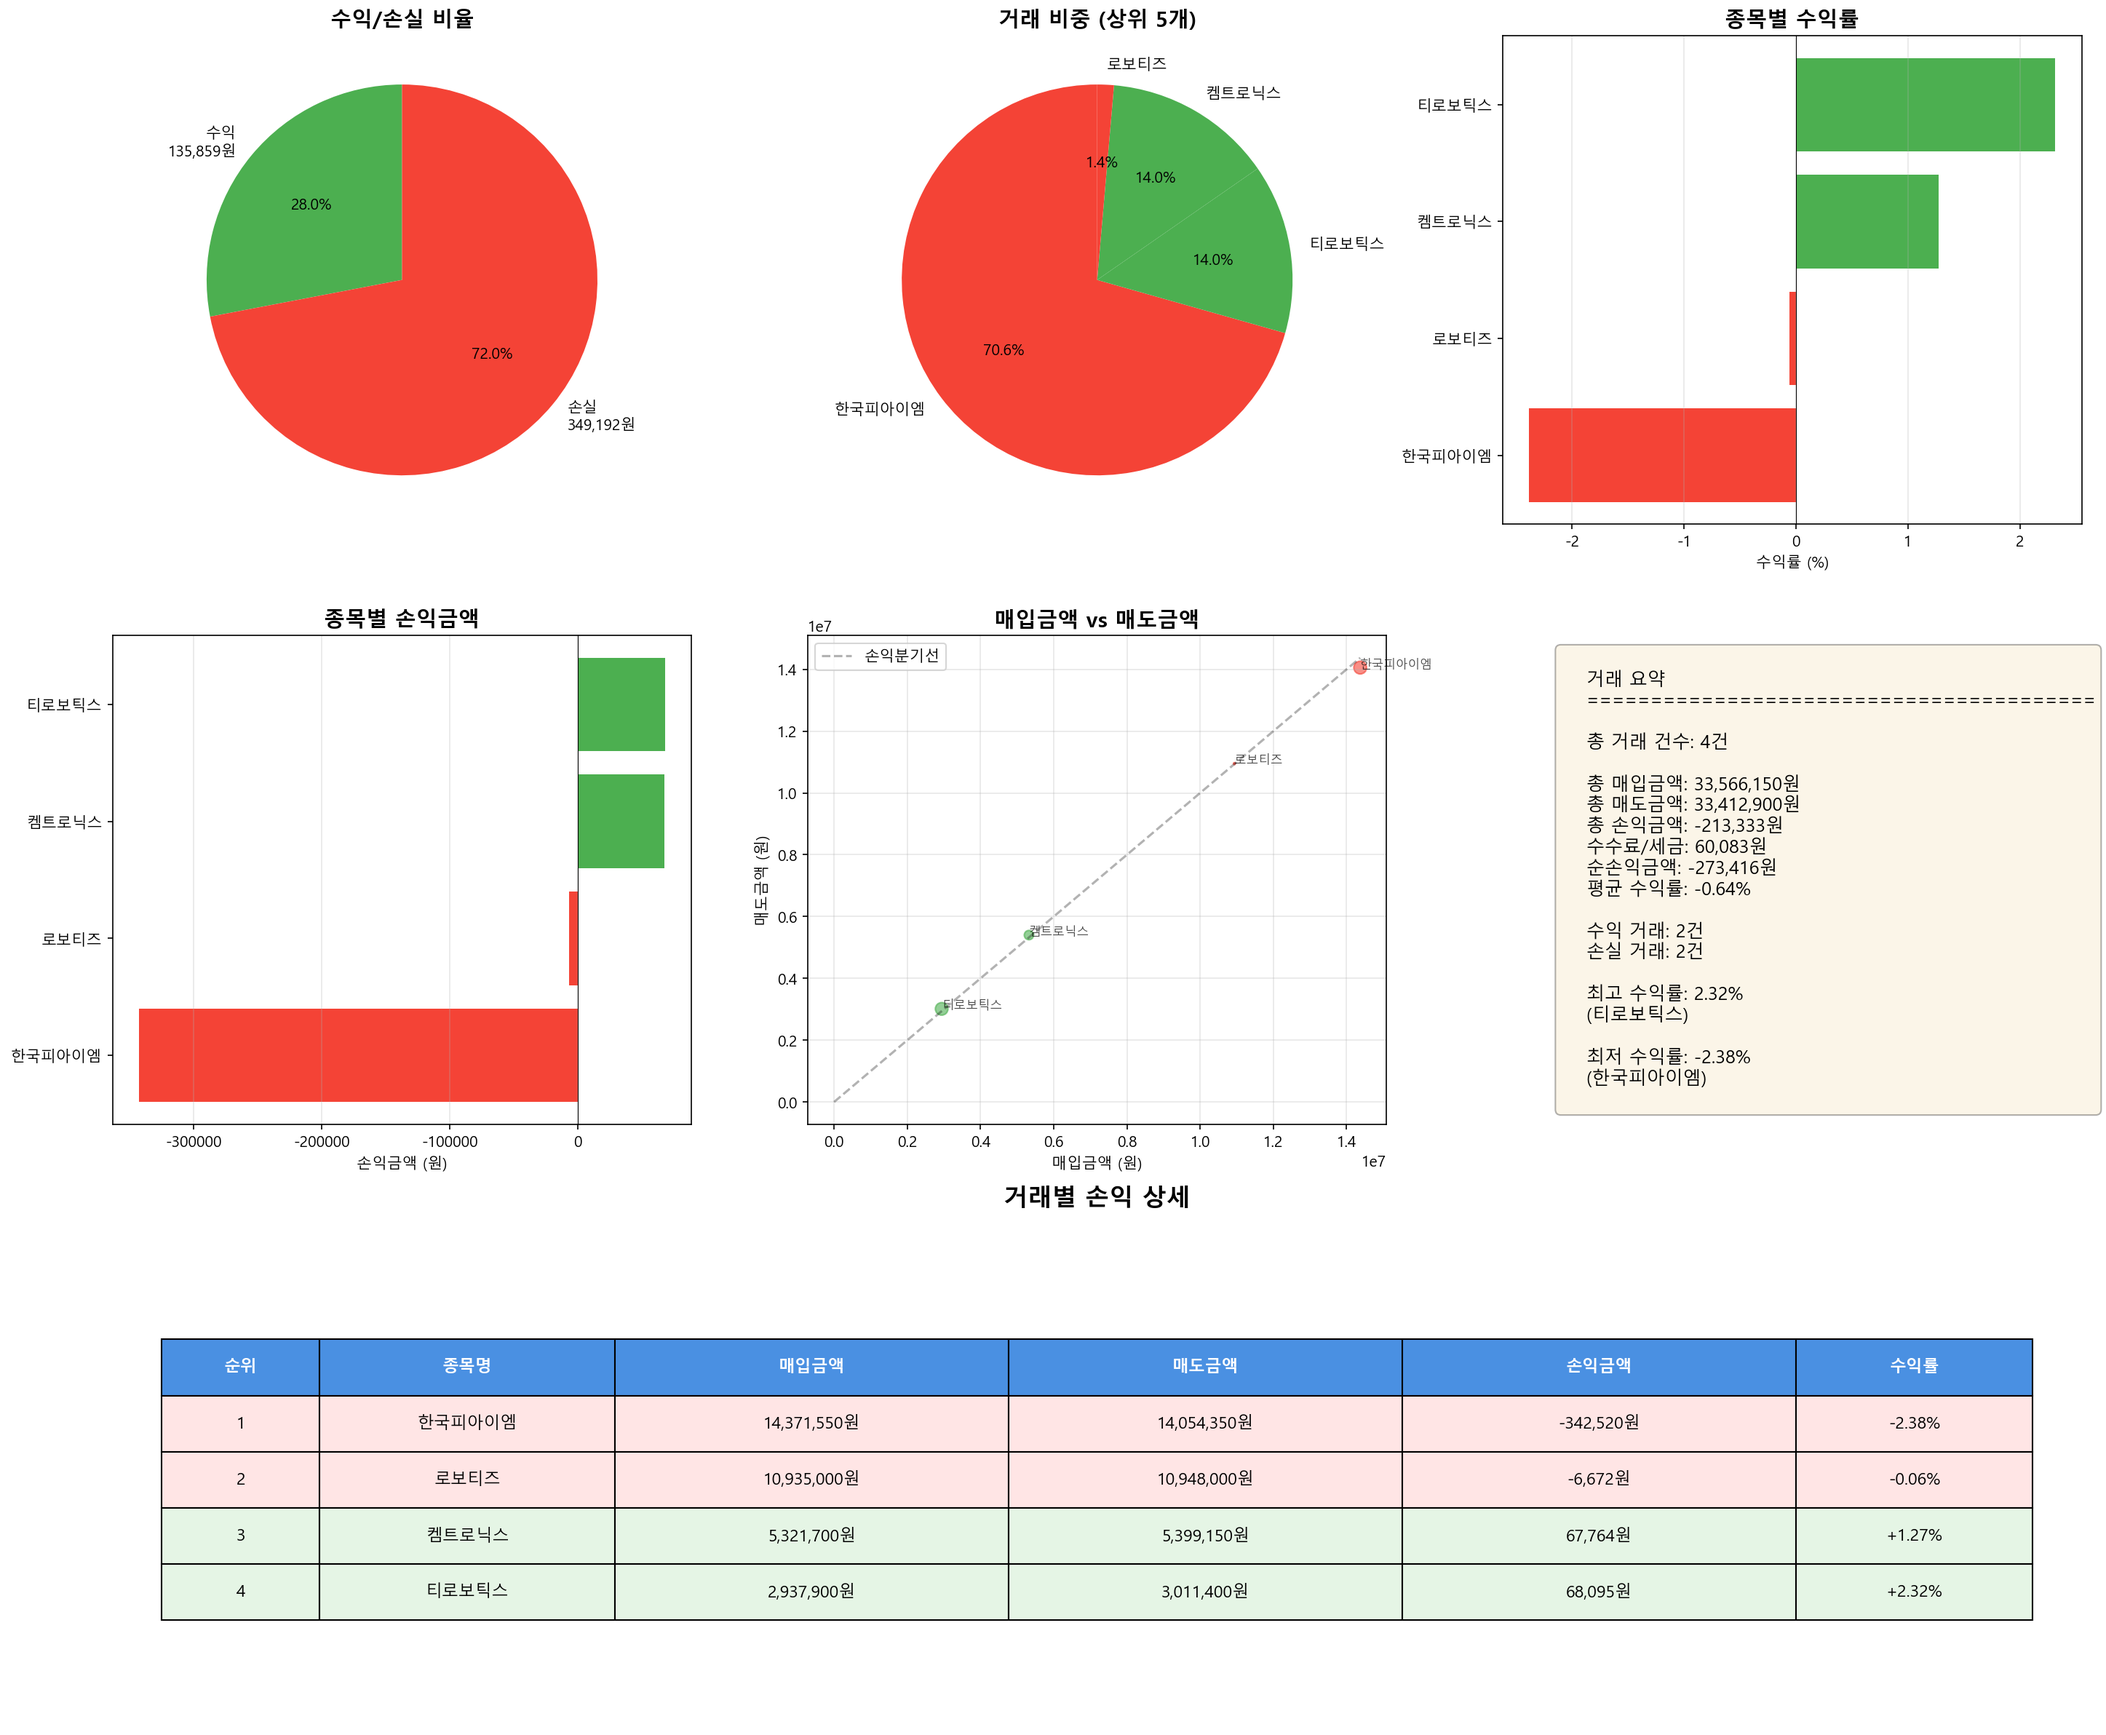
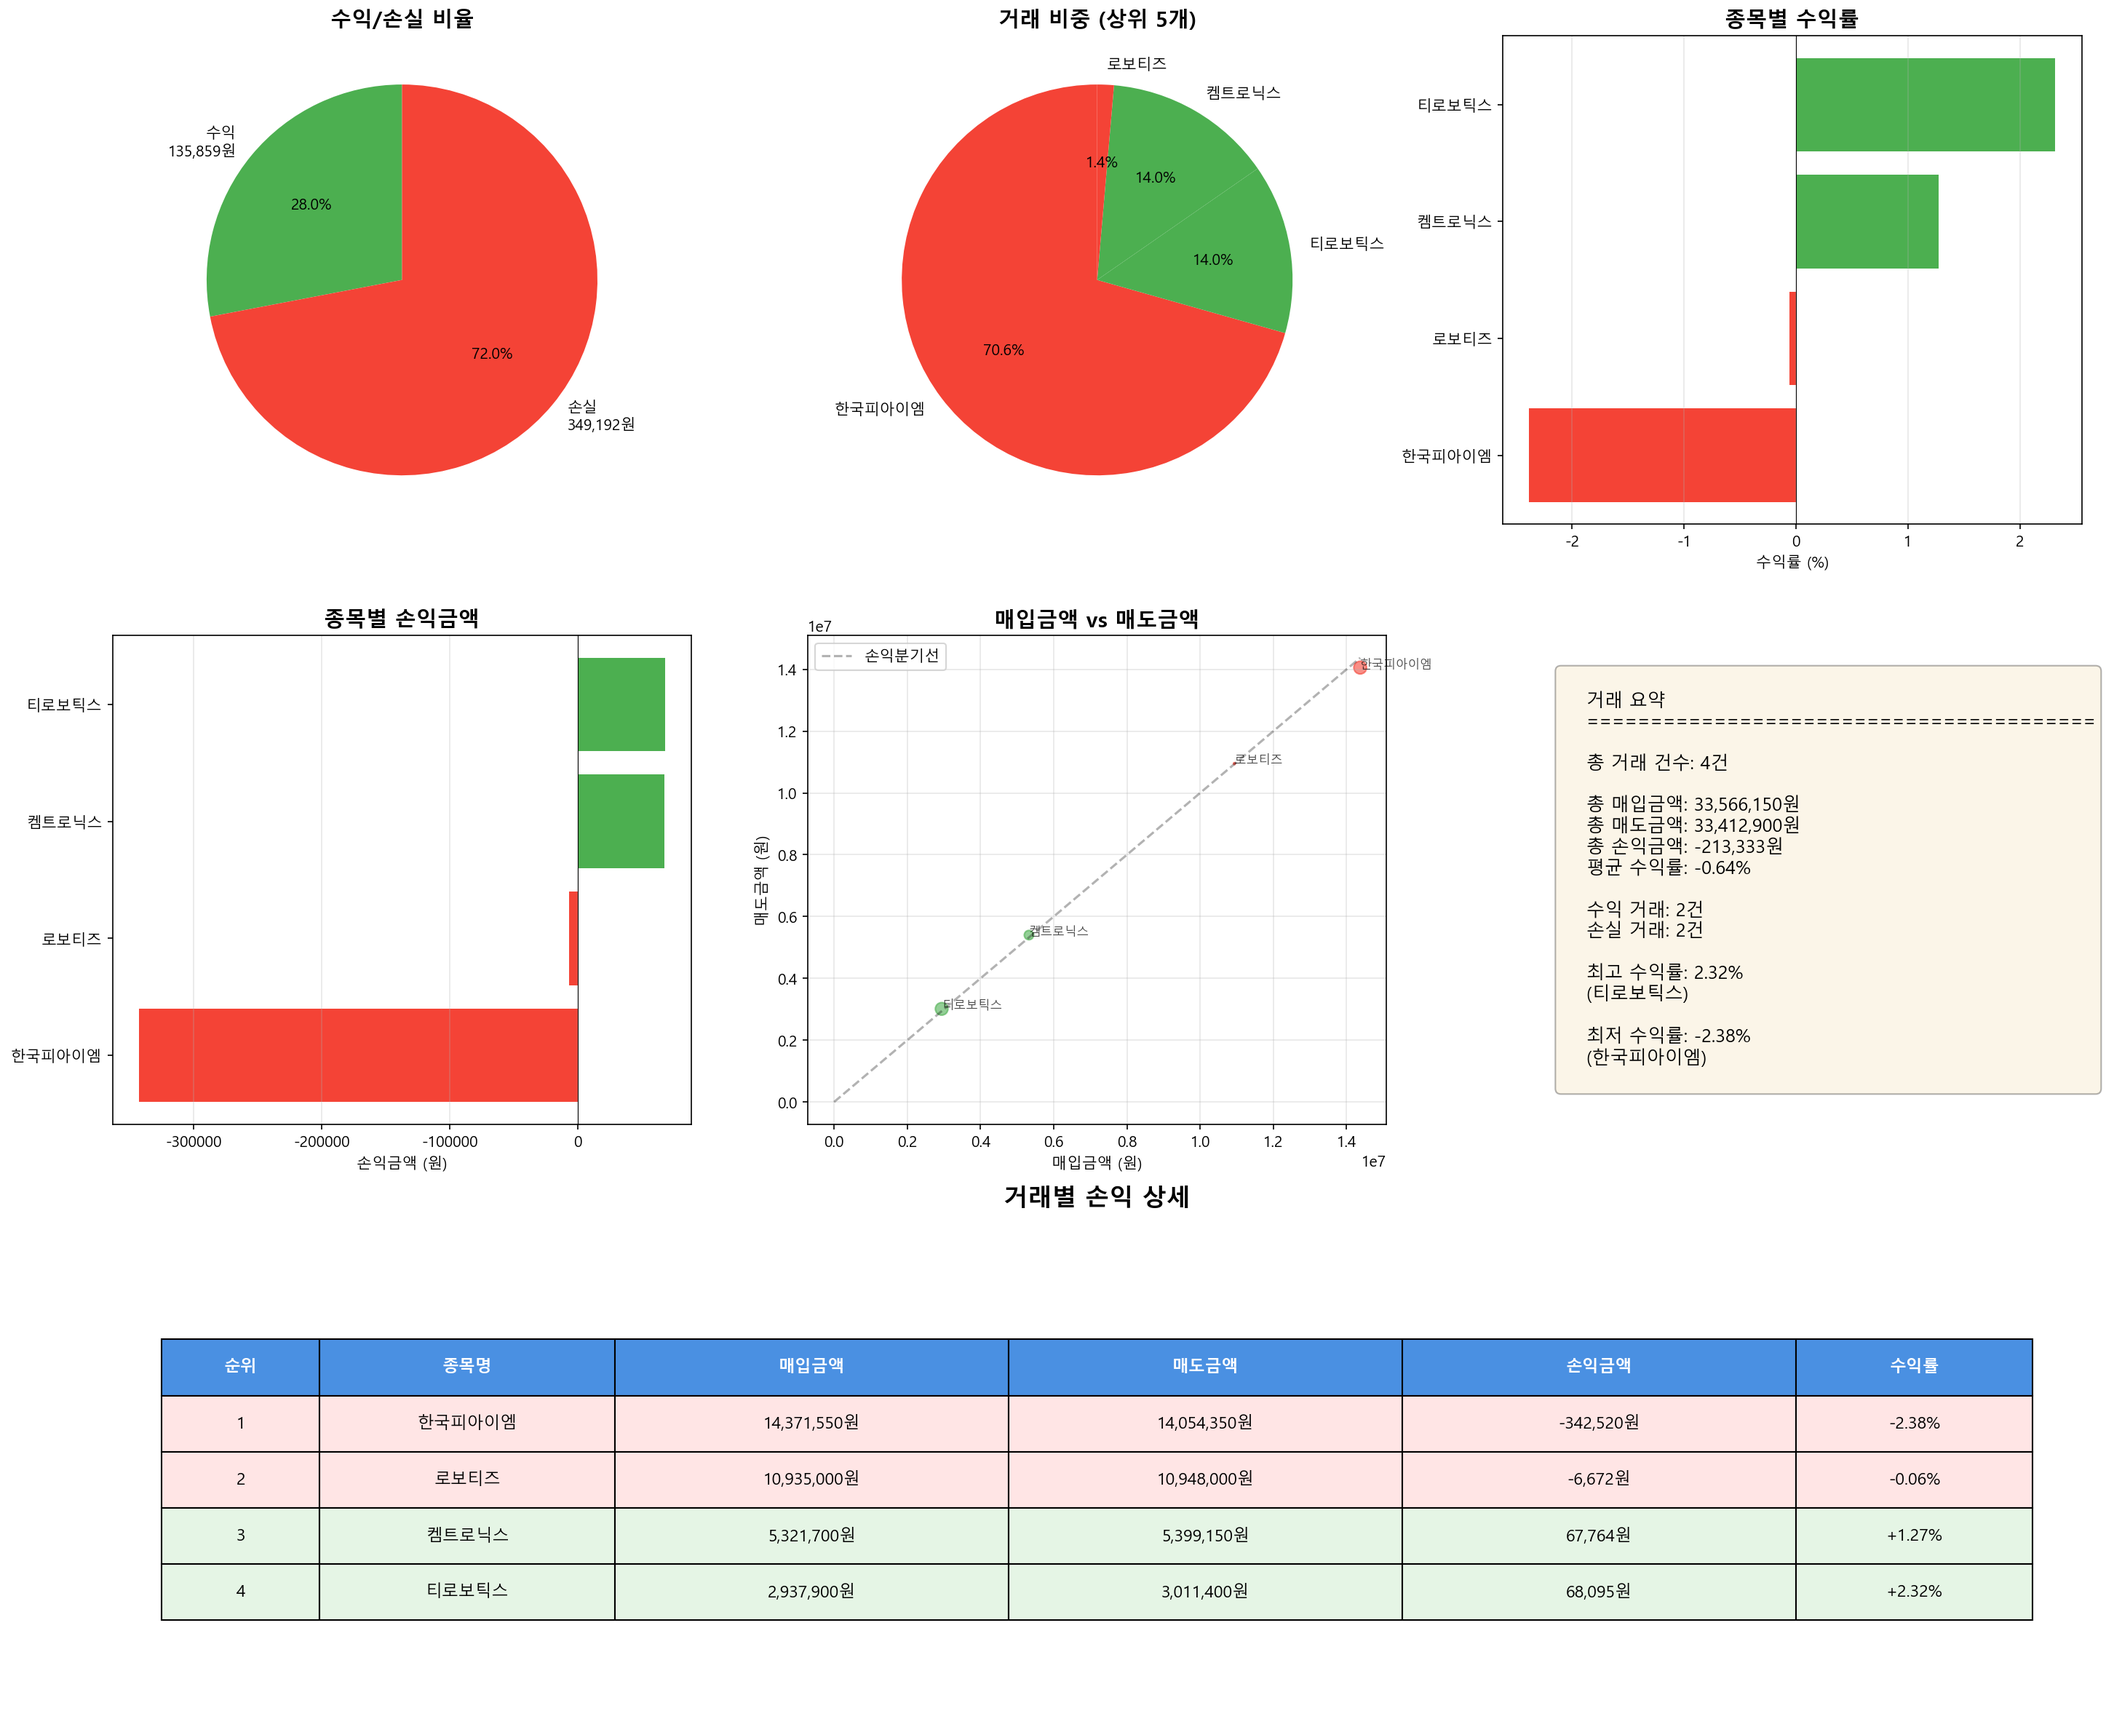
Fix duplicate fee deduction in tradings analysis
Problem: Fee was being deducted twice from profit calculation
- Total profit already includes fees deducted
- Net profit was incorrectly subtracting fees again

Changes:
- Removed fee/tax and net profit fields from reports
- Updated analyze_tradings.py:
  * analyze_tradings() function: removed fee calculations
  * visualize_tradings() function: removed from summary chart
  * generate_markdown_report() function: removed from table
- Re-analyzed both 2025-11-03 and 2025-11-04 data

Results now correctly show:
- 2025-11-03: Total profit -213,333원 (-0.64%)
- 2025-11-04: Total profit 309,457원 (+0.78%)

Generated with Claude Code

Changed region(s): [[0.7464, 0.3725, 0.8708, 0.6208], [0.9952, 0.6208, 1.0, 0.6518], [0.9952, 0.3725, 1.0, 0.4035]]

diff --git a/analyze_tradings.py b/analyze_tradings.py
@@ -131,16 +131,12 @@ def analyze_tradings(df):
     total_buy_amount = df['매입금액'].sum()
     total_sell_amount = df['매도금액'].sum()
     total_profit = df['손익금액'].sum()
-    total_fee = df['수수료및세금'].sum()
     total_return = (total_profit / total_buy_amount) * 100 if total_buy_amount > 0 else 0
-    net_profit = total_profit - total_fee
 
     print("\n[전체 거래 현황]")
     print(f"총 매입금액: {total_buy_amount:,.0f}원")
     print(f"총 매도금액: {total_sell_amount:,.0f}원")
     print(f"총 손익금액: {total_profit:,.0f}원")
-    print(f"수수료/세금: {total_fee:,.0f}원")
-    print(f"순손익금액: {net_profit:,.0f}원")
     print(f"평균 수익률: {total_return:.2f}%")
 
     # 수익/손실 거래 분류
@@ -193,8 +189,6 @@ def analyze_tradings(df):
         'total_buy_amount': total_buy_amount,
         'total_sell_amount': total_sell_amount,
         'total_profit': total_profit,
-        'total_fee': total_fee,
-        'net_profit': net_profit,
         'total_return': total_return,
         'profit_trades': len(profit_trades),
         'loss_trades': len(loss_trades)
@@ -282,8 +276,6 @@ def visualize_tradings(df, summary, date_str=None):
     총 매입금액: {summary['total_buy_amount']:,.0f}원
     총 매도금액: {summary['total_sell_amount']:,.0f}원
     총 손익금액: {summary['total_profit']:,.0f}원
-    수수료/세금: {summary['total_fee']:,.0f}원
-    순손익금액: {summary['net_profit']:,.0f}원
     평균 수익률: {summary['total_return']:.2f}%
 
     수익 거래: {summary['profit_trades']}건
@@ -366,8 +358,6 @@ def generate_markdown_report(df, summary, date_str=None):
 | 총 매입금액 | {summary['total_buy_amount']:,.0f}원 |
 | 총 매도금액 | {summary['total_sell_amount']:,.0f}원 |
 | 총 손익금액 | {summary['total_profit']:,.0f}원 |
-| 수수료/세금 | {summary['total_fee']:,.0f}원 |
-| 순손익금액 | {summary['net_profit']:,.0f}원 |
 | 평균 수익률 | {summary['total_return']:.2f}% |
 
 ---

diff --git a/report/tradings/2025-11-03.md b/report/tradings/2025-11-03.md
@@ -1,6 +1,6 @@
 # 매도 거래 분석 리포트
 
-**분석 일시**: 2025-11-05 10:05:43
+**분석 일시**: 2025-11-05 10:14:39
 **분석 대상 날짜**: 2025-11-03
 
 ---
@@ -13,8 +13,6 @@
 | 총 매입금액 | 33,566,150원 |
 | 총 매도금액 | 33,412,900원 |
 | 총 손익금액 | -213,333원 |
-| 수수료/세금 | 60,083원 |
-| 순손익금액 | -273,416원 |
 | 평균 수익률 | -0.64% |
 
 ---

diff --git a/report/tradings/2025-11-04.md b/report/tradings/2025-11-04.md
@@ -1,6 +1,6 @@
 # 매도 거래 분석 리포트
 
-**분석 일시**: 2025-11-05 01:30:34
+**분석 일시**: 2025-11-05 10:14:52
 **분석 대상 날짜**: 2025-11-04
 
 ---
@@ -13,8 +13,6 @@
 | 총 매입금액 | 39,583,970원 |
 | 총 매도금액 | 47,592,100원 |
 | 총 손익금액 | 309,457원 |
-| 수수료/세금 | 90,693원 |
-| 순손익금액 | 218,764원 |
 | 평균 수익률 | 0.78% |
 
 ---
